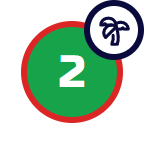
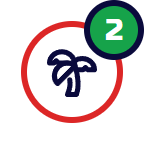
feat(mapa): números são jogos, ícones são lugares nos pinos
- Arena: ícone do tipo no círculo, jogos (1–4, 5+) no badge verde
- Jogo sem arena: disco verde com "1" no lugar da gota
- Grupo verde conta jogos; grupo sem jogo segue branco com lugares
- DECISIONS #183, COMPONENTS atualizado

diff --git a/tests/features/matches/screens/map.s17.test.tsx b/tests/features/matches/screens/map.s17.test.tsx
@@ -8,7 +8,7 @@
  *  3. Permission denied -> explanation with "Abrir configurações"; pressing it
  *     calls Linking.openSettings().
  *  4. One pin renders per match returned within the radius.
- *  5. Pins are color-coded by slot availability (matchPinImage helper + in-screen).
+ *  5. A game with no arena is the green "1" disc (MATCH_PIN, DECISIONS #183).
  *  6. Tapping a pin shows a bottom preview card (MatchCard) with the summary.
  *  7. Tapping the preview card navigates to the match detail (S12).
  *  8. Back control returns to S6 Explore (router.back).
@@ -22,7 +22,7 @@
  */
 import React from 'react';
 import { Linking, Platform } from 'react-native';
-import { VENUE_HALO, clusterImage, matchPinImage, venueActivityFor, venuePinImage } from '@/components/domain/MapPins';
+import { MATCH_PIN, VENUE_HALO, clusterImage, venueActivityFor, venuePinImage } from '@/components/domain/MapPins';
 
 // --- Native / module mocks -------------------------------------------------
 
@@ -248,7 +248,7 @@ jest.mock('@/features/explore/api/venues', () => ({
 
 import { act, fireEvent, render, screen, waitFor } from '@testing-library/react-native';
 
-import MapScreen, { PIN_ANCHOR, nextVenueWithGames, searchAreaFor } from '../../../../app/explore/map';
+import MapScreen, { nextVenueWithGames, searchAreaFor } from '../../../../app/explore/map';
 import { areaCountLabel, listRows } from '@/components/domain/MapListSheet';
 
 // --- Helpers ---------------------------------------------------------------
@@ -300,26 +300,9 @@ beforeEach(() => {
 
 // ---------------------------------------------------------------------------
 
-describe('PIN_ANCHOR', () => {
-  it('sits on the tip: at the head centre across, near the bottom edge down', () => {
-    // 32px head, 3px shadow: a 35 x 42 view with the tip at (16, 16 + 32 / √2).
-    expect(PIN_ANCHOR.x).toBeCloseTo(16 / 35);
-    expect(PIN_ANCHOR.y).toBeCloseTo(38.627 / 42, 3);
-  });
-});
-
-describe('matchPinImage (pure pin image helper)', () => {
-  /**
-   * Covers: S17 — Map of Nearby Matches
-   * Criterion: "Pins are color-coded by slot availability": lime with spots,
-   * amber on the last one, grey when full — one image each (DECISIONS #176).
-   */
-  it('picks one image for 2+ open slots, another for the last, another when full', () => {
-    expect(matchPinImage(5)).toBe(matchPinImage(2));
-    expect(matchPinImage(1)).not.toBe(matchPinImage(2));
-    expect(matchPinImage(-3)).toBe(matchPinImage(0));
-    expect(matchPinImage(0)).not.toBe(matchPinImage(1));
-    expect(matchPinImage(0)).not.toBe(matchPinImage(2));
+describe('MATCH_PIN', () => {
+  it('is the green disc of a group with one game: numbers are games (DECISIONS #183)', () => {
+    expect(MATCH_PIN).toBe(clusterImage(1, 1));
   });
 });
 
@@ -337,10 +320,11 @@ describe('venuePinImage', () => {
 });
 
 describe('clusterImage', () => {
-  it('counts the places in the group, green when one has a game (D5)', () => {
-    expect(clusterImage(0, 3)).not.toBe(clusterImage(1, 3));
-    expect(clusterImage(7, 3)).toBe(clusterImage(1, 3));
-    expect(clusterImage(1, 3)).not.toBe(clusterImage(1, 4));
+  it('counts the games in green, or the places in white when none has a game (DECISIONS #183)', () => {
+    expect(clusterImage(0, 3)).not.toBe(clusterImage(3, 3));
+    expect(clusterImage(3, 2)).toBe(clusterImage(3, 9));
+    expect(clusterImage(1, 3)).not.toBe(clusterImage(2, 3));
+    expect(clusterImage(14, 3)).toBe(clusterImage(10, 3));
     expect(clusterImage(0, 14)).toBe(clusterImage(0, 10));
   });
 });
@@ -455,9 +439,9 @@ describe('S17 — Map of Nearby Matches', () => {
 
     // Image markers (DECISIONS #176).
     const image = (id: string) => screen.getByTestId(id).props.image;
-    expect(image('map-pin-near-open')).toBe(matchPinImage(4));
-    expect(image('map-pin-near-last')).toBe(matchPinImage(1));
-    expect(image('map-pin-near-full')).toBe(matchPinImage(0));
+    expect(image('map-pin-near-open')).toBe(MATCH_PIN);
+    expect(image('map-pin-near-last')).toBe(MATCH_PIN);
+    expect(image('map-pin-near-full')).toBe(MATCH_PIN);
   });
 
   // ---------------------------------------------------------- preview + nav
@@ -687,9 +671,9 @@ describe('Arenas on the map', () => {
     await renderScreen();
     await waitFor(() => expect(screen.getByTestId('map-view')).toBeTruthy());
     // ~10 m apart on a 5 km wide map: one group with the game 350 m away (near-open),
-    // numbered by its 3 places and green because they have games (D5).
+    // green with its 2 games: the arena's and the loose one (DECISIONS #183).
     expect(screen.queryByTestId('map-venue-a')).toBeNull();
-    expect(screen.getByTestId('map-cluster-m:near-open').props.image).toBe(clusterImage(1, 3));
+    expect(screen.getByTestId('map-cluster-m:near-open').props.image).toBe(clusterImage(2, 3));
     // Places this close open just past the grouping, not at building level (fitting them did).
     await press(screen.getByTestId('map-cluster-m:near-open'));
     expect(mockMapMethods.fitToCoordinates).not.toHaveBeenCalled();

diff --git a/scripts/map-pins.html b/scripts/map-pins.html
@@ -19,23 +19,16 @@
   .circle { position: absolute; left: 21px; top: 21px; width: 102px; height: 102px; box-sizing: border-box; border-radius: 50%;
             border: 6px solid var(--navy); background: #fff; display: flex; align-items: center; justify-content: center; }
   .live .circle { border-color: var(--red); }
-  .games .circle { background: var(--green); }
   .icon { width: 54px; height: 54px; display: block; }
-  .count { font-family: 'Russo One'; font-size: 45px; line-height: 1; color: #fff; }
+  .count { font-family: 'Russo One'; font-size: 30px; line-height: 1; color: #fff; }
+  .count.n2 { font-size: 24px; }
   .badge { position: absolute; right: 0; top: 0; width: 60px; height: 60px; box-sizing: border-box; border-radius: 50%;
-           border: 6px solid var(--navy); background: #fff; display: flex; align-items: center; justify-content: center; }
-  .badge .icon { width: 33px; height: 33px; }
+           border: 6px solid var(--navy); background: var(--green); display: flex; align-items: center; justify-content: center; }
   .halo { width: 144px; height: 144px; }
   .halo::after { content: ''; position: absolute; left: 9px; top: 9px; width: 126px; height: 126px; box-sizing: border-box;
                  border-radius: 50%; border: 9px solid var(--lime); }
-  /* A game away from any arena: a drop with a hard navy shadow (35 x 42 dp). */
-  .drop { width: 105px; height: 126px; }
-  .drop i { position: absolute; width: 96px; height: 96px; box-sizing: border-box; border-radius: 48px 48px 0 48px; transform: rotate(45deg); }
-  .drop .shadow { left: 9px; top: 9px; background: var(--navy); }
-  .drop .head { left: 0; top: 0; border: 6px solid var(--navy); display: flex; align-items: center; justify-content: center; }
-  .drop .head::after { content: ''; width: 30px; height: 30px; border-radius: 50%; background: var(--navy); }
-  /* A group of nearby places (47 x 47 dp): a 44 dp disc with a hard navy shadow,
-     green with the games inside, white with the number of places when none has a game. */
+  /* A group of nearby places, or a game with no arena (47 x 47 dp): a 44 dp disc with a hard navy
+     shadow, green with the number of games, white with the number of places when none has a game. */
   .cluster { width: 141px; height: 141px; }
   .cluster i { position: absolute; width: 132px; height: 132px; box-sizing: border-box; border-radius: 50%; }
   .cluster .shadow { left: 9px; top: 9px; background: var(--navy); }
@@ -67,26 +60,23 @@
   for (const [kind, paths] of Object.entries(KINDS)) {
     add(`venue-${kind}`, 'venue', `<div class="circle">${icon(paths)}</div>`);
     for (const live of [false, true]) {
-      // The arena's games (DECISIONS #179): 1–4, then 5+.
+      // The place in the big circle, its games (1–4, then 5+) in the small green one (DECISIONS #183).
       for (const n of ['1', '2', '3', '4', '5+']) {
         const name = `venue-${kind}-${n === '5+' ? '5plus' : n}${live ? '-live' : ''}`;
         add(name, `venue games${live ? ' live' : ''}`,
-          `<div class="circle"><span class="count">${n}</span></div><div class="badge">${icon(paths)}</div>`);
+          `<div class="circle">${icon(paths)}</div><div class="badge"><span class="count n${n.length}">${n}</span></div>`);
       }
     }
   }
   add('venue-halo', 'halo', '');
-  // Places in the group (DECISIONS #179): 2–9, then buckets like Google's cluster renderer
-  // (10+, 20+, 50+, 100+); green when one of them has a game.
+  // Green: the games in a group, or "1" for a game with no arena (DECISIONS #183). White: the
+  // places in a group with no game. 1–9, then buckets like Google's cluster renderer (10+, 20+, 50+, 100+).
   for (const games of [true, false]) {
-    for (const n of ['2', '3', '4', '5', '6', '7', '8', '9', '10', '20', '50', '100']) {
+    for (const n of [...(games ? ['1'] : []), '2', '3', '4', '5', '6', '7', '8', '9', '10', '20', '50', '100']) {
       const text = Number(n) >= 10 ? `${n}+` : n;
       add(`cluster-${games ? 'games' : 'places'}-${n}`, `cluster${games ? ' games' : ''}`,
         `<i class="shadow"></i><i class="disc n${text.length}">${text}</i>`);
     }
-  }
-  for (const [name, color] of [['open', 'var(--lime)'], ['last', 'var(--amber)'], ['full', 'var(--muted)']]) {
-    add(`match-${name}`, 'drop', `<i class="shadow"></i><i class="head" style="background:${color}"></i>`);
   }
 </script>
 </body>

diff --git a/src/components/domain/MapPins.tsx b/src/components/domain/MapPins.tsx
@@ -80,9 +80,9 @@ const VENUE_PINS: Record<VenueKind, { none: ImageRequireSource; games: ImageRequ
 };
 
 /**
- * An arena: green with the number of its games (1–4, then 5+) and its kind's icon (ball for a
- * court, palm tree for sand, tree for a park) in a corner badge, red ring while one is played;
- * white with its kind's icon when it has none.
+ * An arena: white with its kind's icon (ball for a court, palm tree for sand, tree for a park),
+ * and the number of its games (1–4, then 5+) in a green corner badge when it has any; red ring
+ * while one is played.
  * 48 dp square, centred on the coordinate.
  */
 export function venuePinImage(arena: Pick<MapArena, 'kind' | 'gamesCount' | 'live'>): ImageRequireSource {
@@ -95,35 +95,11 @@ export function venuePinImage(arena: Pick<MapArena, 'kind' | 'gamesCount' | 'liv
 /** The lime ring drawn under the selected arena (same 48 dp box, same centre). */
 export const VENUE_HALO: ImageRequireSource = require('../../../assets/map-pins/venue-halo.png');
 
-// A game away from any arena: a drop (square with three round corners turned
-// 45°, sharp corner down) with a navy shadow shifted like HARD_SHADOW.
-const PIN_HEAD = 32;
-const PIN_SHADOW = 3;
-const PIN_TIP_Y = PIN_HEAD / 2 + PIN_HEAD * Math.SQRT1_2;
-const PIN_WIDTH = PIN_HEAD + PIN_SHADOW;
-const PIN_HEIGHT = Math.ceil(PIN_TIP_Y) + PIN_SHADOW;
-/** Puts the tip, not the middle of the image, on the coordinate. */
-export const MATCH_PIN_ANCHOR = { x: PIN_HEAD / 2 / PIN_WIDTH, y: PIN_TIP_Y / PIN_HEIGHT };
-/** Apple Maps ignores `anchor`: it shifts the image from its centre instead. */
-export const MATCH_PIN_CENTER_OFFSET = { x: PIN_WIDTH / 2 - PIN_HEAD / 2, y: PIN_HEIGHT / 2 - PIN_TIP_Y };
-
-const MATCH_PINS = {
-  open: require('../../../assets/map-pins/match-open.png') as ImageRequireSource,
-  last: require('../../../assets/map-pins/match-last.png') as ImageRequireSource,
-  full: require('../../../assets/map-pins/match-full.png') as ImageRequireSource,
-};
-
-/** Drop fill by open slots: lime with spots, amber on the last one, grey when full. */
-export function matchPinImage(openSlots: number): ImageRequireSource {
-  if (openSlots <= 0) return MATCH_PINS.full;
-  if (openSlots === 1) return MATCH_PINS.last;
-  return MATCH_PINS.open;
-}
-
-// A group of nearby places (DECISIONS #177, #179): its number is how many places it holds
-// (arenas and games with no arena); green when any of them has a game. 2–9, then 10+, 20+, 50+, 100+.
+// Numbers are games, icons are places (designer, DECISIONS #183). Green: the games in a group, or
+// "1" for a game with no arena. White: the places in a group with no game. 1–9, then 10+, 20+, 50+, 100+.
 const CLUSTER_PINS: { games: Record<number, ImageRequireSource>; places: Record<number, ImageRequireSource> } = {
   games: {
+    1: require('../../../assets/map-pins/cluster-games-1.png'),
     2: require('../../../assets/map-pins/cluster-games-2.png'),
     3: require('../../../assets/map-pins/cluster-games-3.png'),
     4: require('../../../assets/map-pins/cluster-games-4.png'),
@@ -155,11 +131,15 @@ const CLUSTER_PINS: { games: Record<number, ImageRequireSource>; places: Record<
 
 const CLUSTER_BUCKETS = [100, 50, 20, 10];
 
-/** The image of a group: the number of places in it, green when one of them has a game. */
+const bucket = (n: number, min: number) => (n < 10 ? Math.max(n, min) : CLUSTER_BUCKETS.find((b) => n >= b)!);
+
+/** The image of a group: green with its games, or white with its places when none has a game. */
 export function clusterImage(games: number, places: number): ImageRequireSource {
-  const key = places < 10 ? Math.max(places, 2) : CLUSTER_BUCKETS.find((b) => places >= b)!;
-  return games > 0 ? CLUSTER_PINS.games[key]! : CLUSTER_PINS.places[key]!;
+  return games > 0 ? CLUSTER_PINS.games[bucket(games, 1)]! : CLUSTER_PINS.places[bucket(places, 2)]!;
 }
 
-/** A 44 dp disc with a 3 dp shadow: the disc's centre on the point. */
+/** A game away from any arena: the green disc with "1", like a group with one game. */
+export const MATCH_PIN: ImageRequireSource = CLUSTER_PINS.games[1]!;
+
+/** A 44 dp disc with a 3 dp shadow: the disc's centre on the point (groups and games with no arena). */
 export const CLUSTER_ANCHOR = { x: 22 / 47, y: 22 / 47 };

diff --git a/app/explore/map.tsx b/app/explore/map.tsx
@@ -24,11 +24,9 @@ import { MatchCard } from '@/components/domain/MatchCard';
 import { MapListSheet } from '@/components/domain/MapListSheet';
 import {
   CLUSTER_ANCHOR,
-  MATCH_PIN_ANCHOR,
-  MATCH_PIN_CENTER_OFFSET,
   VENUE_HALO,
   clusterImage,
-  matchPinImage,
+  MATCH_PIN,
   venuePinImage,
 } from '@/components/domain/MapPins';
 import {
@@ -96,9 +94,6 @@ export function searchAreaFor(region: Region): SearchArea {
 }
 
 type PermissionState = 'undetermined' | 'granted' | 'denied';
-
-/** Puts a game pin's tip, not the middle of its view, on the coordinate. */
-export const PIN_ANCHOR = MATCH_PIN_ANCHOR;
 
 // The map's own filters (owner's 4th review, items 7 and 8): a distance from the
 // user and the kinds of place. MAX_KM is "any distance".
@@ -650,9 +645,8 @@ export default function MapScreen() {
               testID={`map-pin-${match.id}`}
               // Over an arena on the same spot (a game not linked to it), or the arena takes the tap.
               zIndex={1}
-              anchor={MATCH_PIN_ANCHOR}
-              centerOffset={MATCH_PIN_CENTER_OFFSET}
-              image={matchPinImage(match.capacity - match.confirmed)}
+              anchor={CLUSTER_ANCHOR}
+              image={MATCH_PIN}
             />
           );
         })}

diff --git a/app/(tabs)/explore.tsx b/app/(tabs)/explore.tsx
@@ -17,9 +17,8 @@ import { ExploreFilterSheet } from "@/components/domain/ExploreFilterSheet";
 import { MatchCard } from "@/components/domain/MatchCard";
 import {
   CLUSTER_ANCHOR,
-  MATCH_PIN_ANCHOR,
   clusterImage,
-  matchPinImage,
+  MATCH_PIN,
   venuePinImage,
 } from "@/components/domain/MapPins";
 import { clusterPoints } from "@/features/explore/lib/cluster";
@@ -223,7 +222,7 @@ function MiniMap({
               ? [CLUSTER_ANCHOR, clusterImage(c.games, c.points.length)]
               : venue
                 ? [{ x: 0.5, y: 0.5 }, venuePinImage(venue)]
-                : [MATCH_PIN_ANCHOR, matchPinImage(match ? match.capacity - match.confirmed : 0)];
+                : [CLUSTER_ANCHOR, MATCH_PIN];
           return (
             <Marker
               key={c.id}

diff --git a/docs/DECISIONS.md b/docs/DECISIONS.md
@@ -376,3 +376,4 @@ Source: the designer's `Quadra-App.html` (`SplashScreen`, `OnboardingScreen`) an
 | 180 | **Map and list together: a panel dragged up from the bottom of the map** (map refactor, stage E6; D8). `MapListSheet` sits over the map while no pin is open: collapsed it counts the area ("12 arenas · 7 jogos nesta área", the server's count for the whole rectangle, or what is shown when a distance or kind filter is on); a tap on its handle or a drag opens it to half or full height with the area's arenas and games together, closest first (arenas as rows with their kind, distance, games this week and the next game; games as the usual `MatchCard`). Tapping an arena opens its card and moves the map to it; tapping a game opens it. While a new area loads, the top pill shows "•••" like the references. Arena rows carry no name: a name is a paid Google lookup (Places Pro), made only when an arena is opened. The panel is our own (`react-native-reanimated` + `react-native-gesture-handler`, already installed), not `@gorhom/bottom-sheet` (D6). Explore's tab stays as it is. Provisional layout until the designer's. | Johny's decisions (2026-10-23): D8 (list inside `/explore/map`, Explore unchanged) and D6 (own panel). The references (Airbnb) show map and list as one view with a loading pill on top. |
 | 181 | **Arena curation screen for the team** (map refactor, stage E4; API DECISIONS #94). Settings gets an "Equipe" section with "Curadoria de arenas" only when `GET /admin/access` says the account is on the team (the moderation admins); the API checks it again on every call, the app only hides the entry. `app/profile/curation.tsx` shows the Google places of the area nobody decided on yet, as a list (games nearby first, likely duplicates flagged) or on the map (approved arenas with a lime ring). Tapping one opens a card with its Google name and address (shown, never saved), "Abrir no Google Maps", the kind to confirm (Quadra, Areia, Parque) and three decisions: "Aprovar como arena" (at its point, or where the reviewer dragged its pin on the map, which the API records as ours), "Mesma arena que…" (an approved arena within 150 m) and "Rejeitar". Right after a decision a dialog offers "Desfazer". "Buscar lugares no Google nesta área" asks the API to search the area on screen (paid, so only on demand; up to 4 grid cells per press). Approved arenas show on everyone's map (`GET /map/items`). | Johny's decision (2026-10-23, D10): curation in the app for his and his partner's accounts, instead of a spreadsheet. |
 | 182 | **The map has no emojis, and fixes from testing it on the emulator** (26/10/2026). The kinds of place are lucide icons, not emojis: ball (`Volleyball`) for courts, palm tree (`TreePalm`) for sand, tree (`TreeDeciduous`) for parks, in the map's chips (`FilterChip` gets an `icon`), the arena card, the list rows and the curation screen; the arena pins were redrawn from `scripts/map-pins.html` with the same icons in navy. Fixes: **pins left behind on the map** (a filtered-out arena kept its pin, and copies piled up on one spot) came from `react-native-maps` 1.27.2, whose Android `safeAddFeature` *replaced* the marker at an index instead of inserting it, so the replaced pin was never removed; upgraded to 1.28.1, the first release that inserts (Expo SDK 56 lists 1.27.2; the API is the same). A tap on a group of places on (nearly) the same spot zoomed to building level and the pins still overlapped: such a group now opens just past where grouping stops (`CLOSE_SPAN`). A game pin sits over an arena on the same spot (`zIndex`), so a game not linked to that arena can be tapped. Opening an arena from the list or the "Outra arena" card centres it at a street zoom instead of keeping the old zoom. "Tentar novamente" on the map's error refetched the wrong query. The list row's accessibility label said "0 jogos esta semana" for an arena without games; the count pill kept "Carregando esta área" as its label after loading. Explore's mini map no longer shows Google's directions buttons (`toolbarEnabled={false}`). | Owner asked for the map to be tested on the emulator and for the emojis to go (Johny, 26/10/2026). Not changed: games created before their arena was approved stay unlinked (map plan: existing games keep no arena until someone links them), so such a game shows as its own pin on top of an arena that says "Nenhum jogo marcado". |
+| 183 | **Map pins: numbers are games, icons are places** (designer's review, 26/10/2026). An arena pin is always its kind's icon (ball, palm tree, tree) in the white circle; its games in the next 7 days (1–4, then 5+) go in a small green badge, and the red ring still marks a game being played. A game with no arena is no longer a coloured drop: it is the green disc with "1", the same as a group holding one game. A group's number is now its games (green), not its places; a group with no game stays white with the number of its places, since there is no game to count (this changes D5 of #179). The drop's slot colours (lime, amber on the last spot, grey when full) are gone from the pin; the game card still shows the spots. New image `cluster-games-1`; `match-open`, `match-last` and `match-full` removed; `matchPinImage`, `MATCH_PIN_ANCHOR` and `MATCH_PIN_CENTER_OFFSET` replaced by `MATCH_PIN` on `CLUSTER_ANCHOR`. | Eike (designer), forwarded by Johny (26/10/2026): six pin looks with different meanings confused users; two signals are enough, numbers for games and icons for kinds of place. |

diff --git a/docs/COMPONENTS.md b/docs/COMPONENTS.md
@@ -445,12 +445,12 @@ More UI primitives will live here:
 - **Used in**: S17 map (`app/explore/map.tsx`), while no pin is open
 - **Notes**: The list under the map (#180): a panel dragged up from the bottom (peek, half, full) with its own Reanimated + Gesture Handler pan on the handle (no bottom-sheet package). Collapsed it shows the area count; open, arenas (no name: a Google lookup costs, done only on open) and `MatchCard`s, closest first. Provisional layout until the designer's.
 
-### `MapPins` (`venuePinImage`, `matchPinImage`, `clusterImage`)
+### `MapPins` (`venuePinImage`, `clusterImage`, `MATCH_PIN`)
 - **Path**: `src/components/domain/MapPins.tsx`
 - **Category**: domain
-- **API**: `venuePinImage(arena)` (badge 1–4, then 5+; red ring when `live`), `matchPinImage(openSlots)` and `clusterImage(games, places)` (the number is the places in the group, green when one has a game, #179) return the image for a Marker's `image` prop; `VENUE_HALO` (selected arena ring), `venueActivityFor`, `MATCH_PIN_ANCHOR`, `MATCH_PIN_CENTER_OFFSET`, `CLUSTER_ANCHOR`. Grouping itself is `clusterPoints` in `src/features/explore/lib/cluster.ts` (`supercluster`, #177, #179)
+- **API**: `venuePinImage(arena)` (kind icon in the circle, games 1–4 then 5+ in a green badge; red ring when `live`) and `clusterImage(games, places)` (green with the games in the group, white with the places when none has a game, #183) return the image for a Marker's `image` prop; `MATCH_PIN` (a game with no arena: the green "1" disc), `VENUE_HALO` (selected arena ring), `venueActivityFor`, `CLUSTER_ANCHOR` (groups and games with no arena). Grouping itself is `clusterPoints` in `src/features/explore/lib/cluster.ts` (`supercluster`, #177, #179)
 - **Used in**: S17 map (`app/explore/map.tsx`), S6 Explore preview map
-- **Notes**: Pins are images in `assets/map-pins` (only `@3x`, drawn from `scripts/map-pins.html`), never views inside a Marker (#176). A new look is a new image: regenerate the PNGs from the HTML and add the `require` here. Arena pins are 48 dp squares centred on the point; drops are 35 × 42 dp with the tip on the point.
+- **Notes**: Pins are images in `assets/map-pins` (only `@3x`, drawn from `scripts/map-pins.html`), never views inside a Marker (#176). A new look is a new image: regenerate the PNGs from the HTML and add the `require` here. Arena pins are 48 dp squares centred on the point; discs (groups, games with no arena) are 47 dp with the disc centre on the point. Numbers are games, icons are places (#183).
 
 ### `MatchHistoryRow`
 - **Path**: `src/components/domain/MatchHistoryRow.tsx`
